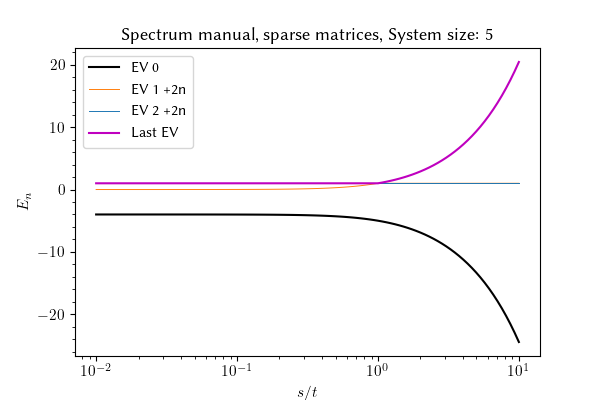
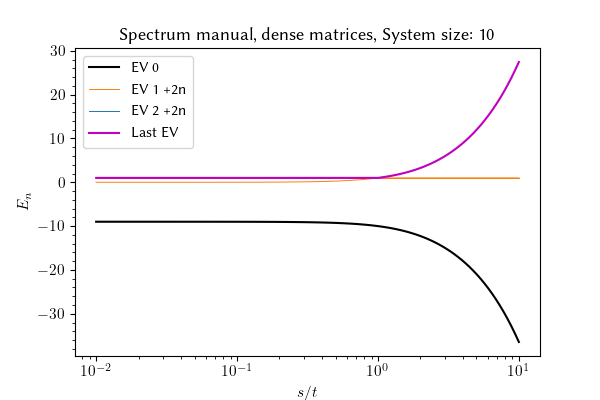
attempted L=10 runs

diff --git a/src/main.py b/src/main.py
@@ -18,6 +18,7 @@ try:
 except ModuleNotFoundError as e:
     MPI = None
 
+
 class Lattice:
     def __init__(self, L: int, type: str, mpi: bool = False) -> None:
         # str that store whether to use dense or spars matrices
@@ -33,8 +34,10 @@ class Lattice:
 
         self.L = L
         self.hamiltonian = {
-            "manual" : Operator(L=L + 1, matrix=np.zeros((L + 1, L + 1)), sparse=self.sparse),
-            "exact"   : HBFockOperator(L, sparse=self.sparse)  # Size 2**(L+1) x 2**(L+1)
+            "manual": Operator(
+                L=L + 1, matrix=np.zeros((L + 1, L + 1)), sparse=self.sparse
+            ),
+            "exact": HBFockOperator(L, sparse=self.sparse),  # Size 2**(L+1) x 2**(L+1)
         }
 
     def build_hamiltonian_manual(self, t: float, s: float) -> None:
@@ -107,11 +110,10 @@ class Lattice:
 
         """
         # values of t and s for plot
-        
 
         build_hamiltonian_func = {
-            "manual": self.build_hamiltonian_manual, # manual for the a) plot
-            "exact" : self.build_hamiltonian_ed      # exact for the c) plot
+            "manual": self.build_hamiltonian_manual,  # manual for the a) plot
+            "exact": self.build_hamiltonian_ed,  # exact for the c) plot
         }
 
         if type_ not in build_hamiltonian_func:
@@ -135,16 +137,18 @@ class Lattice:
 
             # Parameters
             t = 1
-            num = 100 # num must be a multiple of MPI_SIZE
+            num = 112  # num must be a multiple of MPI_SIZE
             chunk_size = num // self.MPI_SIZE
-            assert num % self.MPI_SIZE == 0, "number of samples not divisible by number of nodes"
+            assert (
+                num % self.MPI_SIZE == 0
+            ), "number of samples not divisible by number of nodes"
 
             # Just in case we have some other function running
-            self.MPI_COMM.Barrier() 
+            self.MPI_COMM.Barrier()
 
             # Generate the list of s/ts and scatter it
             if self.MPI_RANK == 0:
-                s_t = np.power(10, np.linspace(start=-2, stop=1, num=num)) 
+                s_t = np.power(10, np.linspace(start=-2, stop=1, num=num))
                 sendbuf = np.array(np.split(s_t, self.MPI_SIZE))
             recvbuf = np.empty(chunk_size)
             self.MPI_COMM.Scatter(sendbuf, recvbuf, root=0)
@@ -165,16 +169,15 @@ class Lattice:
 
             if self.MPI_RANK != 0:
                 return
-            
+
             assert isinstance(recvbuf, np.ndarray)
             _shape = recvbuf.shape
             evals = recvbuf.reshape(_shape[0] * _shape[1], *_shape[2:])
-        
+
         # From here on only rank zero if MPI
 
         # reshape evals list according to the evolution of each eval under t_s
         evals_new = evals.T
-        print(evals_new.shape)
 
         num_eigv = len(evals_new)
         # put all EV's on the same plot
@@ -295,18 +298,12 @@ def condensate_frac(init_L, matrix_type) -> None:
 
             # get ground state of Hamiltonian
             ground = evectors[:, np.where(evalues == min(evalues))][:, :, 0]
-            print(L,ground.shape)
             ground = HBFockState(L=L, vector=ground, typ=ST.KET)
 
             # fill rho matrix for this s(t)
             for j in range(L):
                 for l in range(L):
                     corr = lattice.correlator(j, l)
-                    print(
-                        ground.dagger().vector.shape,
-                        corr.matrix.shape,
-                        ground.vector.shape,
-                    )
                     p = ground.dagger() @ corr @ ground
                     rho[j][l] = np.real(p)
 
@@ -377,7 +374,7 @@ def condensate_frac(init_L, matrix_type) -> None:
     # Plotting
     for i in range(2):
         G.ax[i].set_xscale("log")
-        #G.ax[i].set_ylim(0, 1)
+        # G.ax[i].set_ylim(0, 1)
         G.ax[i].set_title(
             r"Condensate fraction $\frac{n_0}{N}$ with "
             + str(matrix_type)
@@ -390,16 +387,16 @@ def condensate_frac(init_L, matrix_type) -> None:
 
 
 if __name__ == "__main__":
-    L = 2
+    L = 10
     # "dense" uses ndarray, "sparse" uses scipy.sparse.coo_matrix
-    test = Lattice(L, "dense", mpi = True)
+    test = Lattice(L, "dense", mpi=True)
 
     # "manual" gives the a) spectrum, anything else gives the c) spectrum
     # the integer input determines after what number of EV's the color scheme repeats, i.e. 2 means that the even and odd EV's are colored alike
 
     test.spectrum("manual", 2, True)
     test.spectrum("exact", 2, True)
-    # condensate_frac(init_L=L, matrix_type="dense")
+    condensate_frac(init_L=L, matrix_type="dense")
 
     # test.build_hamiltonian_ed(1, -2)
     # print(test.Hamiltonian.matrix)

diff --git a/src/QM.py b/src/QM.py
@@ -118,10 +118,11 @@ class State:
         self.vector @= o.matrix
 
         return self
-    
+
     @overload
     def __matmul__(self, o: State) -> Union[float, complex]:
         pass
+
     @overload
     def __matmul__(self, o: State) -> Operator:
         pass
@@ -130,14 +131,16 @@ class State:
     def __matmul__(self, o: Operator) -> State:
         pass
 
-    def __matmul__(self, o: Union[Operator, State]) -> Union[Operator, State, Union[float, complex]]:
+    def __matmul__(
+        self, o: Union[Operator, State]
+    ) -> Union[Operator, State, Union[float, complex]]:
         if self.type == ST.BRA and isinstance(o, Operator):
             return type(self)(self.L, self.vector @ o.matrix, self.type)
         elif self.type == ST.KET and o.type == ST.BRA:
             return self.operator(self.L, self.vector @ o.vector)
         elif self.type == ST.BRA and o.type == ST.KET:
             return (self.vector @ o.vector).flatten()[0]
-        
+
         raise TypeError(f"MatMul not defined for {self.type} and {o}")
 
     # Comparisons
@@ -332,7 +335,6 @@ class HBFockState(State):
         if isinstance(vector, np.matrix):
             vector = np.squeeze(np.asarray(vector))
 
-        print(vector.shape, len(vector))
         assert len(vector) == 2 ** (L + 1), "Fock State vector must be 2**(L+1)"
         super().__init__(L, vector, typ)
         self.operator = HBFockOperator
